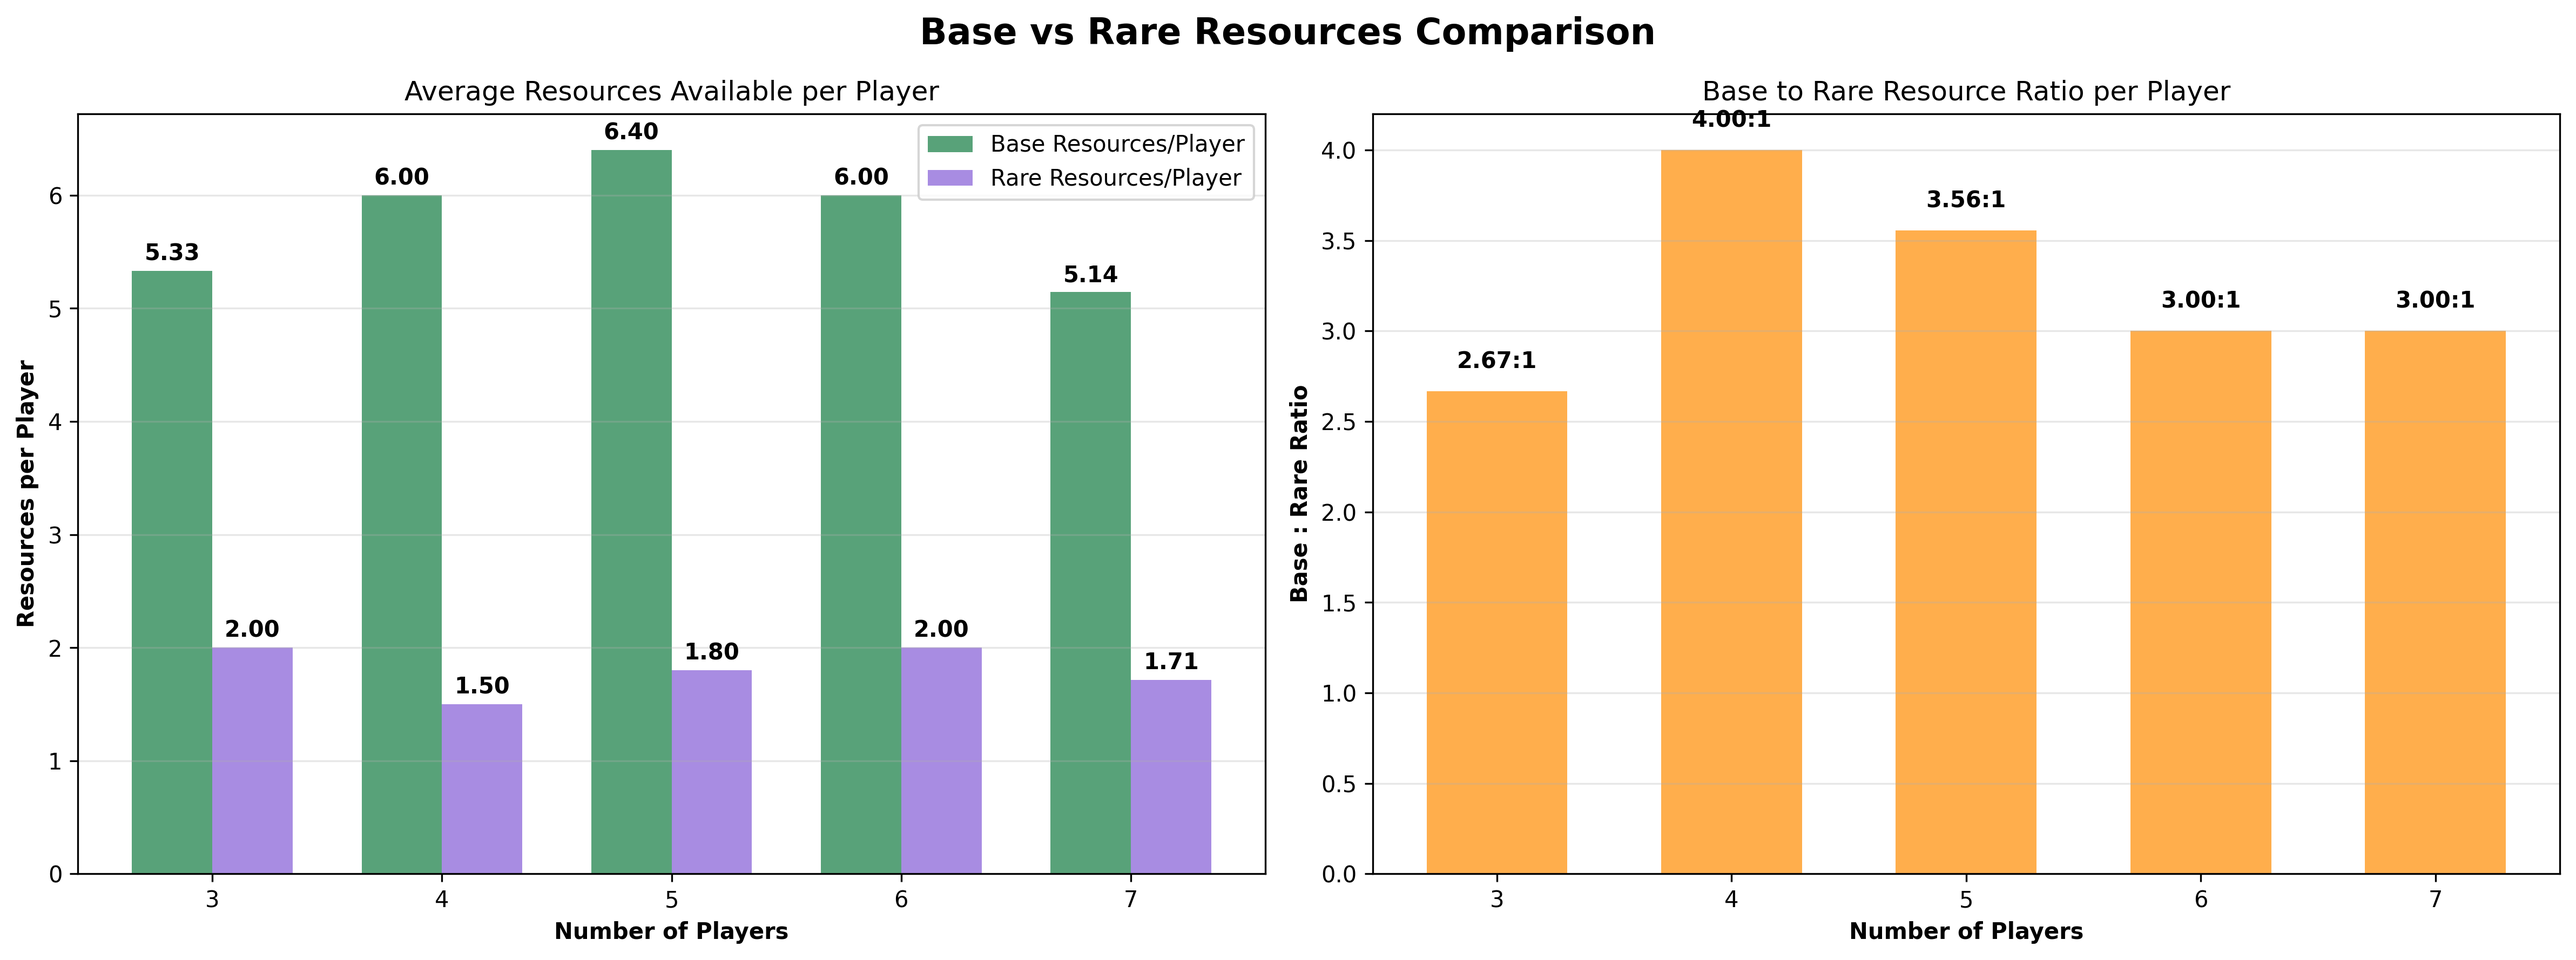
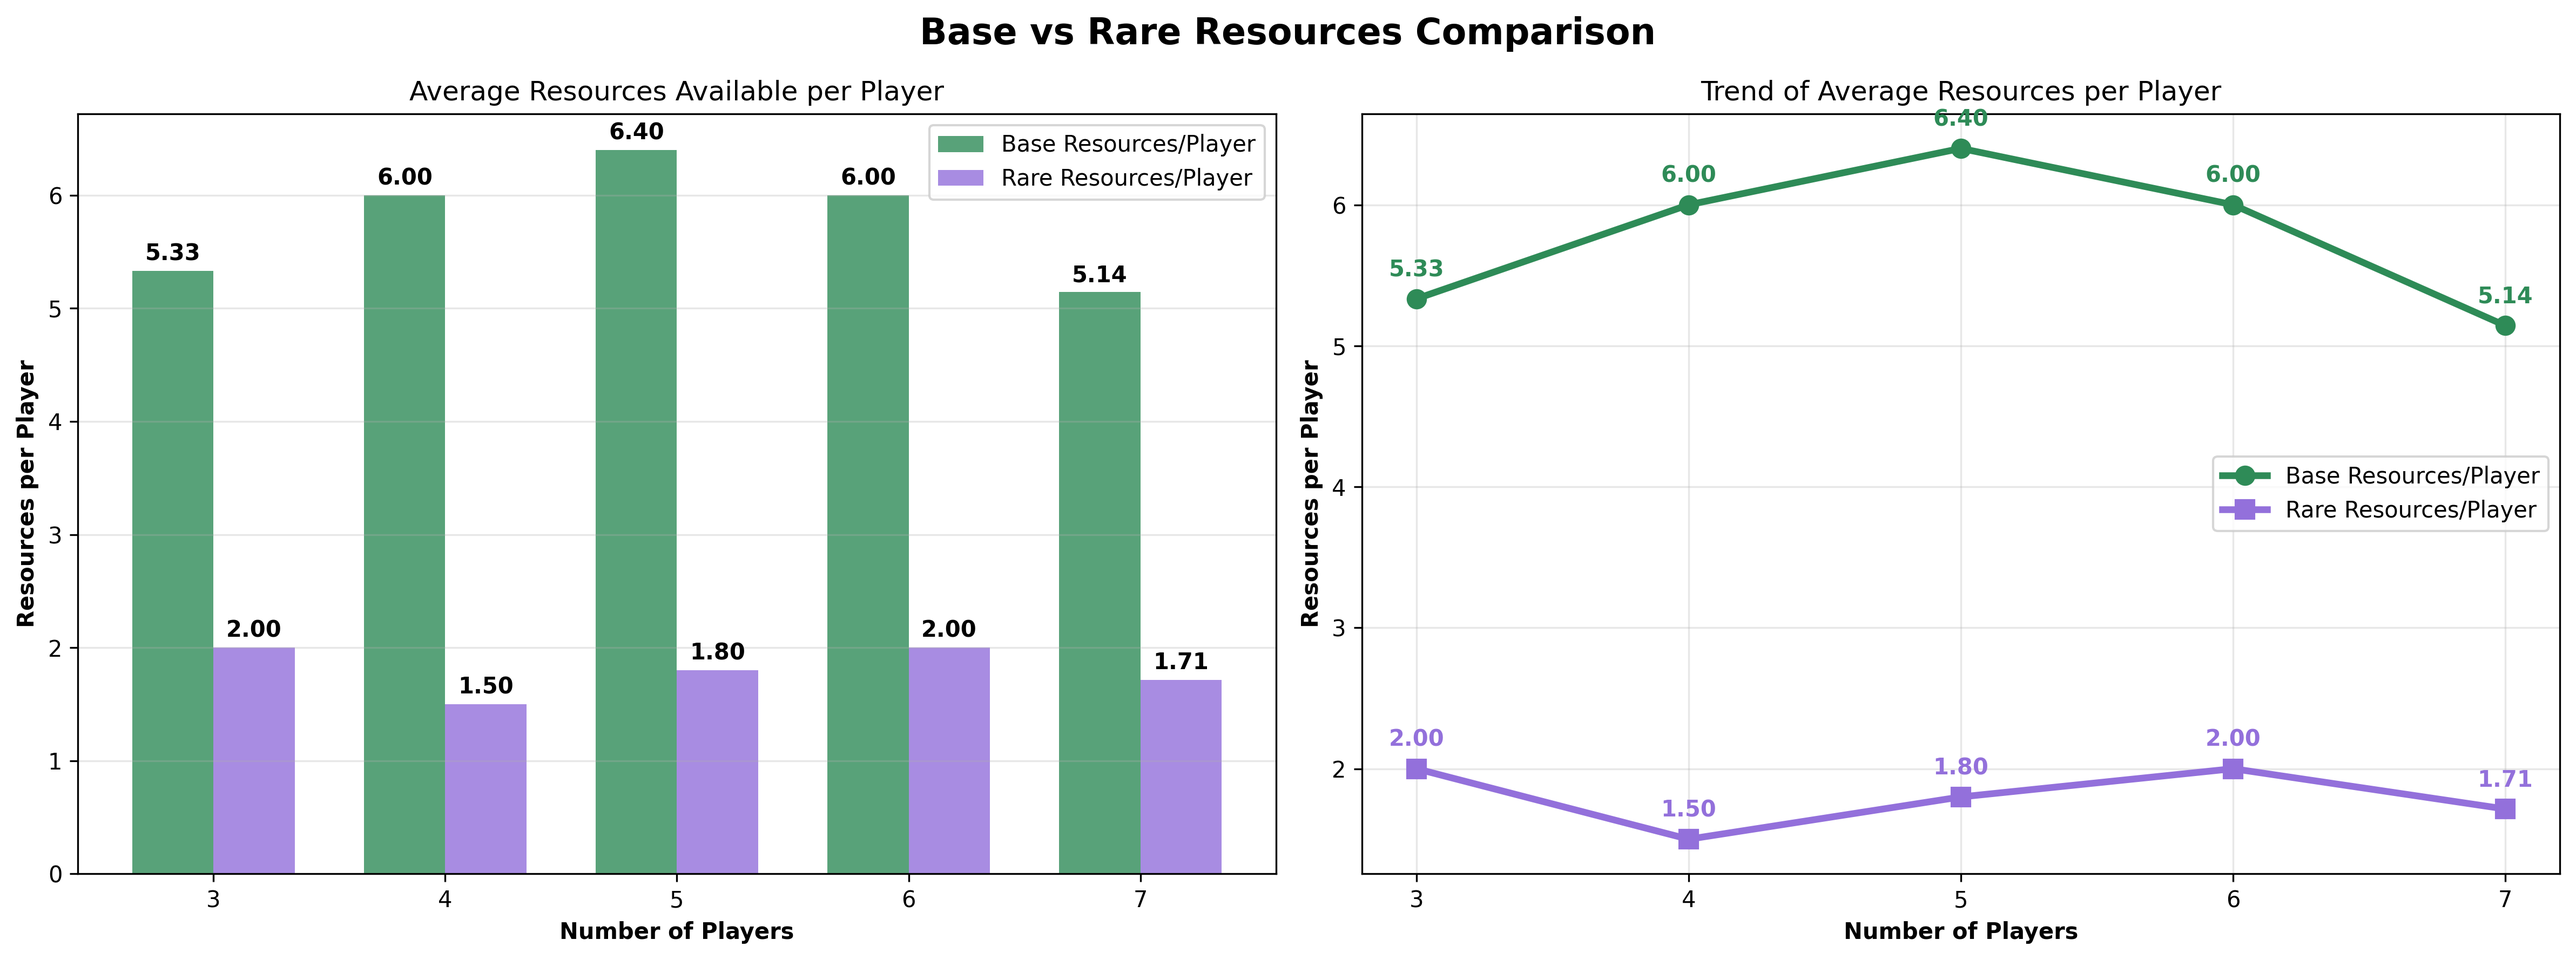
improve graphs

diff --git a/src/stats/res_balance.py b/src/stats/res_balance.py
@@ -198,7 +198,7 @@ def create_rare_resources_chart(data):
     return fig
 
 def create_resource_comparison_chart(data):
-    """Create chart comparing base vs rare resources"""
+    """Create chart comparing average base vs rare resources per player"""
     fig, (ax1, ax2) = plt.subplots(1, 2, figsize=(16, 6))
     fig.suptitle('Base vs Rare Resources Comparison', fontsize=16, fontweight='bold')
     
@@ -206,7 +206,7 @@ def create_resource_comparison_chart(data):
     total_base_per_player = data['total_base_per_player']
     total_rare_per_player = data['total_rare_per_player']
     
-    # Subplot 1: Resources per player
+    # Subplot 1: Resources per player (grouped bars)
     width = 0.35
     x = np.arange(len(player_counts))
     
@@ -230,22 +230,27 @@ def create_resource_comparison_chart(data):
             ax1.text(bar.get_x() + bar.get_width()/2., height + 0.05,
                     f'{height:.2f}', ha='center', va='bottom', fontweight='bold')
     
-    # Subplot 2: Base to Rare ratio
-    base_rare_ratio = [base/rare if rare > 0 else 0 
-                      for base, rare in zip(total_base_per_player, total_rare_per_player)]
+    # Subplot 2: Average resources per player (line chart for trends)
+    ax2.plot(player_counts, total_base_per_player, 'o-', linewidth=3, 
+             markersize=8, label='Base Resources/Player', color='#2E8B57')
+    ax2.plot(player_counts, total_rare_per_player, 's-', linewidth=3, 
+             markersize=8, label='Rare Resources/Player', color='#9370DB')
     
-    bars = ax2.bar(player_counts, base_rare_ratio, color='#FF8C00', alpha=0.7, width=0.6)
     ax2.set_xlabel('Number of Players', fontweight='bold')
-    ax2.set_ylabel('Base : Rare Ratio', fontweight='bold')
-    ax2.set_title('Base to Rare Resource Ratio per Player')
+    ax2.set_ylabel('Resources per Player', fontweight='bold')
+    ax2.set_title('Trend of Average Resources per Player')
     ax2.set_xticks(player_counts)
-    ax2.grid(True, alpha=0.3, axis='y')
+    ax2.legend()
+    ax2.grid(True, alpha=0.3)
     
-    # Add ratio labels
-    for bar, ratio in zip(bars, base_rare_ratio):
-        height = bar.get_height()
-        ax2.text(bar.get_x() + bar.get_width()/2., height + 0.1,
-                f'{ratio:.2f}:1', ha='center', va='bottom', fontweight='bold')
+    # Add value annotations on the line chart
+    for i, (base_val, rare_val) in enumerate(zip(total_base_per_player, total_rare_per_player)):
+        ax2.annotate(f'{base_val:.2f}', (player_counts[i], base_val), 
+                    textcoords="offset points", xytext=(0,10), ha='center', 
+                    fontweight='bold', color='#2E8B57')
+        ax2.annotate(f'{rare_val:.2f}', (player_counts[i], rare_val), 
+                    textcoords="offset points", xytext=(0,10), ha='center', 
+                    fontweight='bold', color='#9370DB')
     
     plt.tight_layout()
     return fig
